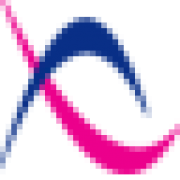
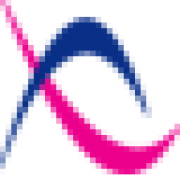
crop the marks to what is drawn on them, and stop blowing them up
İşbir Yatak's file is 250px wide holding a 182px logo, all the empty space on one
side, so every frame centred the file and the drawing sat off to the left. Across
all of them nineteen carry a margin worth cropping.

A mark is also no longer stretched across a store's header. It identifies the
shop, it is not a photograph of it, and a header nine hundred pixels wide was
enlarging a two-hundred-pixel file four or five times over.

The home page's recent list gets the mark too, now that highlights carry the
categories the rule needs.

Changed region(s): [[0.0, 0.0857, 1.0, 1.0], [0.0278, 0.0857, 0.0833, 0.1143]]

diff --git a/src/components/HomeDiscoverySignals.tsx b/src/components/HomeDiscoverySignals.tsx
@@ -17,10 +17,10 @@ import {homeSignalsCopy} from '@/content/home';
 
 function HighlightLink({item,locale,label,metric}:{item:StoreHighlight;locale:Locale;label:string;metric:string}){
   const place=[item.district,item.city].filter(Boolean).join(', ');
-  const photo=storePhotoURL(item.photo,520,item.name);
+  const photo=storePhotoURL(item.photo,520,item.name,item.categories);
   return <Link className="store-highlight" href={localePath(locale,storePath(item))}>
     {photo
-      ?<Image className={`store-highlight-photo${isBrandMark(item.photo,item.name)?' is-brand-mark':''}`} src={photo} width={72} height={72} alt="" unoptimized/>
+      ?<Image className={`store-highlight-photo${isBrandMark(item.photo,item.name,item.categories)?' is-brand-mark':''}`} src={photo} width={72} height={72} alt="" unoptimized/>
       :<span className="store-highlight-photo store-highlight-photo-empty" aria-hidden="true">{item.name.trim().charAt(0)}</span>}
     <span className="store-highlight-copy">
       <span>{label}</span>
@@ -52,13 +52,13 @@ export async function HomeDiscoverySignals({locale}:{locale:Locale}){
     {recent.length>0&&<div className="home-signal-recent">
       <h3>{copy.recent} <small>{copy.recentIntro}</small></h3>
       <ul>{recent.map(store=>{
-        const photo=storePhotoURL(store.photo,160,store.name);
+        const photo=storePhotoURL(store.photo,160,store.name,store.categories);
         // How many people, not how many reviews. One person who wrote fourteen times is
         // one opinion, and the page says so rather than counting to fourteen.
         const people=store.reviewer_count??0;
         return <li key={store.id}><Link href={localePath(locale,storePath(store))}>
           {photo
-            ?<Image className={`home-recent-mark${isBrandMark(store.photo,store.name)?' is-brand-mark':''}`} src={photo} width={40} height={40} alt="" unoptimized/>
+            ?<Image className={`home-recent-mark${isBrandMark(store.photo,store.name,store.categories)?' is-brand-mark':''}`} src={photo} width={40} height={40} alt="" unoptimized/>
             :<span className="home-recent-mark is-empty" aria-hidden="true">{store.name.trim().charAt(0)}</span>}
           <span className="home-recent-copy">
             <strong>{store.name}</strong>

diff --git a/src/app/daylight.css b/src/app/daylight.css
@@ -1425,8 +1425,13 @@ svg{stroke-width:2}
    it -- drawn the other way it reads as a mistake rather than as a logo. */
 .is-brand-mark{background:var(--surface);border:1px solid var(--line)}
 .is-brand-mark img,img.is-brand-mark{object-fit:contain!important;padding:10%;background:var(--surface)}
-.store-hero-photo.is-brand-mark{background:var(--surface)}
-.store-hero-photo.is-brand-mark img{padding:6% 12%}
+/* A chain's mark is an identifier, not a photograph of the shop, so it is drawn at the size
+   an identifier needs rather than stretched across the whole hero. That is also what keeps it
+   sharp: most of these files are a few hundred pixels wide -- İşbir Yatak is 182 -- and a
+   header nine hundred pixels across was enlarging them four or five times over. Held to 380px
+   and centred, the same file is drawn at or near its own resolution. */
+.store-hero-photo.is-brand-mark{background:var(--surface);display:grid;place-items:center}
+.store-hero-photo.is-brand-mark img{position:static;width:auto;height:auto;max-width:min(380px,62%);max-height:58%;padding:0}
 /* The frame stops under "puan detayını gör" and moves down when the detail opens, instead of
    standing at a fixed height with empty card below the last line. */
 /* One column, always. The table splits into two when the window is wider than 600px -- which

diff --git a/src/lib/types.ts b/src/lib/types.ts
@@ -48,7 +48,7 @@ export type SearchResponse = { search_id: string; visitor_session_id?: string; i
 // reviewer_count is how many different people, which review_count stops being the moment
 // somebody visits twice. slug is here so a link goes straight to the store's readable
 // address rather than to a uuid that answers with a redirect.
-export type StoreHighlight = { id:string;slug?:string;name:string;city:string;district?:string;average_rating:number;review_count:number;recent_review_count:number;reviewer_count?:number;rating_increase?:number;photo?:StoredPhoto };
+export type StoreHighlight = { id:string;slug?:string;name:string;city:string;district?:string;average_rating:number;review_count:number;recent_review_count:number;reviewer_count?:number;rating_increase?:number;photo?:StoredPhoto;categories?:string[] };
 // recent is not a ranking: it is the shops written about most recently, and it carries no
 // threshold because it makes no claim beyond that.
 export type MonthlyStoreHighlights = { rating_gainer?:StoreHighlight;most_reviewed?:StoreHighlight;recent?:StoreHighlight[] };

diff --git a/docs/CHANGELOG.md b/docs/CHANGELOG.md
@@ -8,6 +8,26 @@ value involved.
 
 ---
 
+## Nineteen brand marks were carrying their own empty margins
+
+İşbir Yatak's file is 250 pixels wide and the logo inside it is 182, all of the empty space on
+the right and none on the left -- so every frame that showed it centred the *file* and the
+drawing sat shoved to one side. Measured across all of them, nineteen marks carry a margin
+worth cropping; Konfor Yatak's was 1080x1080 holding a drawing 1021x107.
+
+They are cropped to what is drawn on them. The frames have padding of their own, so nothing
+was kept.
+
+**And a mark is no longer stretched across a store's header.** It is an identifier, not a
+photograph of the shop: most of these files are a few hundred pixels wide, and a header nine
+hundred across was enlarging them four or five times over, which is the blur that was
+reported. Held to 380px and centred, the same file is drawn at or near its own resolution.
+
+Twenty of the thirty-nine marks are still under 600px in their source, which no amount of
+layout fixes -- those want replacing from the brands' own sites.
+
+---
+
 ## A shop that calls itself Yataş now wears the Yataş mark
 
 The mark on a store page normally arrives with the shop, because the shop came out of a
